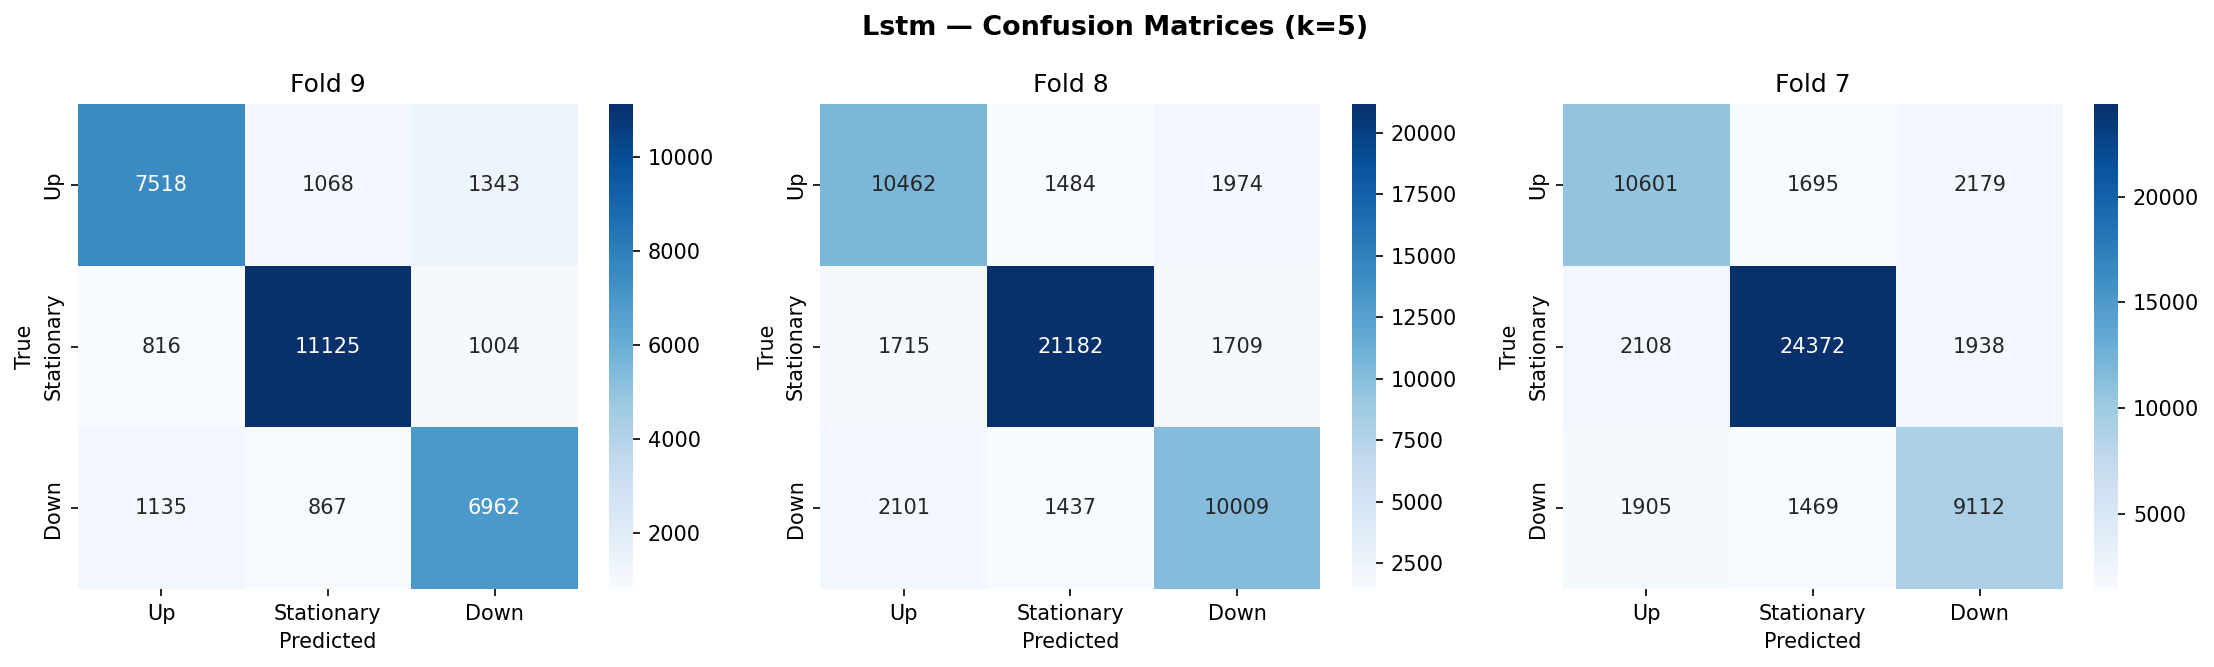
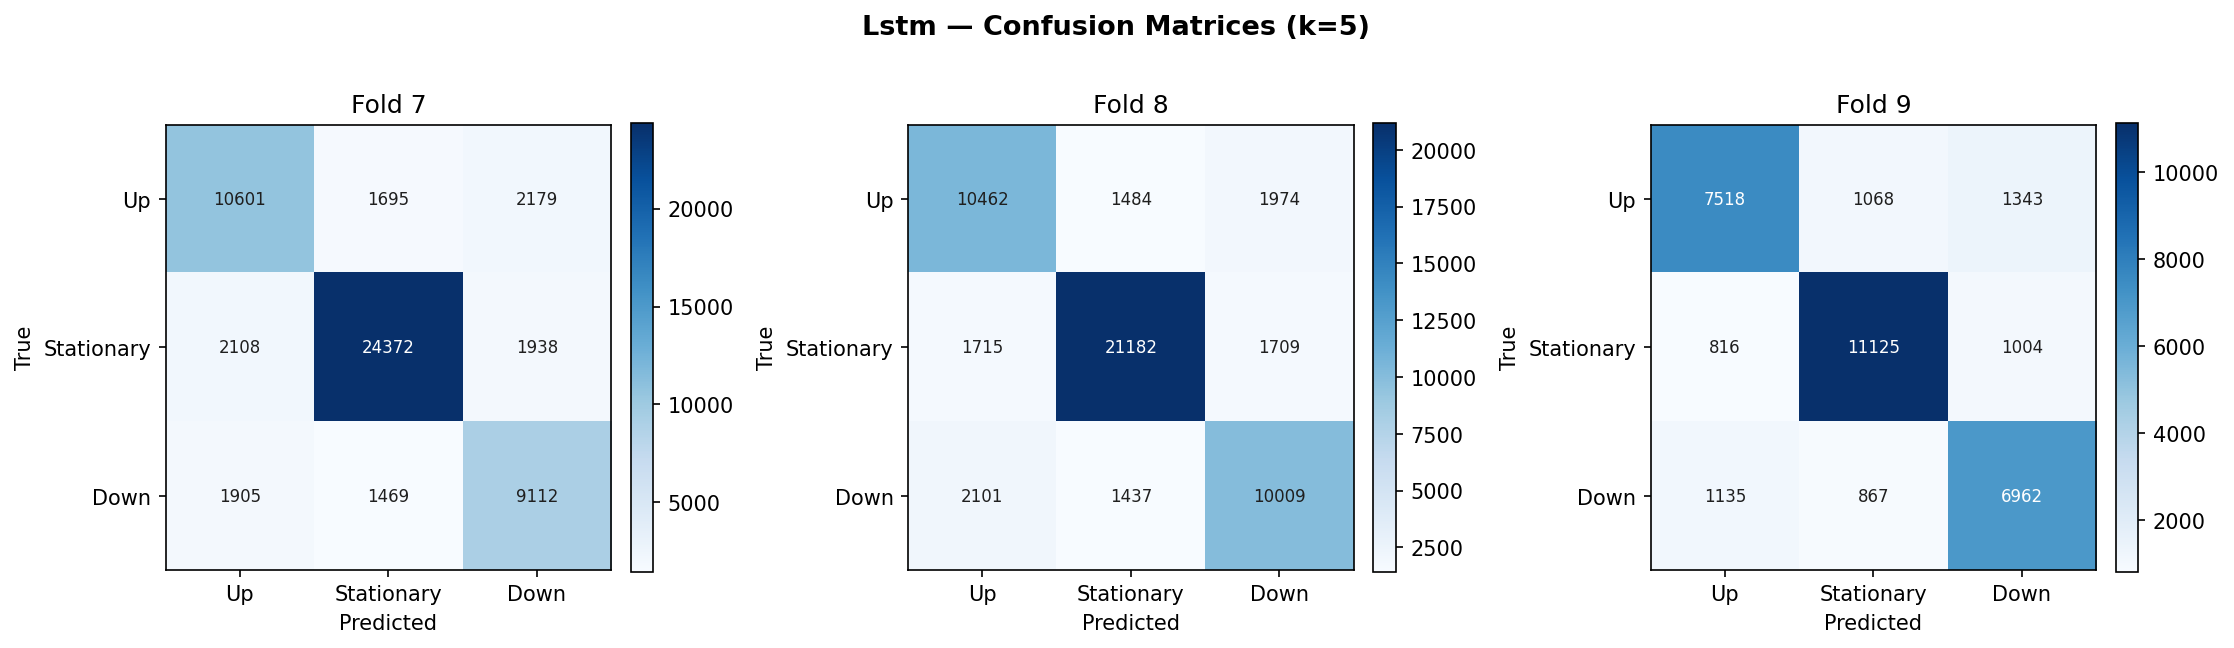
All plots

diff --git a/src/plot_results.py b/src/plot_results.py
@@ -1,6 +1,7 @@
-"""Plot saved output from output/<model>/horizon_<k>/."""
+"""Plot saved output from output/<model>/horizon_<k>/ for one or more horizons."""
 
 import argparse
+import csv
 import json
 from pathlib import Path
 
@@ -9,16 +10,19 @@ matplotlib.use("Agg")
 import matplotlib.pyplot as plt
 import numpy as np
 
-try:
-    import seaborn as sns
-    HAS_SEABORN = True
-except ImportError:
-    HAS_SEABORN = False
-
-
 ALL_MODELS = ["ridge", "logistic", "random_forest", "xgboost", "mlp", "lstm"]
 FOLDS = [7, 8, 9]
 CLASS_NAMES = ["Up", "Stationary", "Down"]
+PLOT_CHOICES = [
+    "all",
+    "confusion",
+    "loss",
+    "importance",
+    "comparison",
+    "comparison_avg",
+    "comparison_folds",
+    "heatmap",
+]
 
 
 FEATURE_GROUPS = {
@@ -39,6 +43,42 @@ def ensure_dir(path):
     Path(path).mkdir(parents=True, exist_ok=True)
 
 
+def _annotate_matrix(ax, data, fmt, threshold=None):
+    """Add contrast-aware text annotations to a heatmap."""
+    if threshold is None:
+        threshold = (float(np.max(data)) + float(np.min(data))) / 2.0
+    for row in range(data.shape[0]):
+        for col in range(data.shape[1]):
+            value = data[row, col]
+            color = "white" if value >= threshold else "#1f1f1f"
+            ax.text(col, row, format(value, fmt), ha="center", va="center", color=color, fontsize=8)
+
+
+def _draw_heatmap(ax, data, xlabels, ylabels, title, cmap, fmt, colorbar=True, aspect="auto"):
+    """Render a heatmap with adaptive text labels and optional colorbar."""
+    image = ax.imshow(data, cmap=cmap, aspect=aspect)
+    ax.set_title(title)
+    ax.set_xticks(np.arange(len(xlabels)))
+    ax.set_xticklabels(xlabels)
+    ax.set_yticks(np.arange(len(ylabels)))
+    ax.set_yticklabels(ylabels)
+    _annotate_matrix(ax, data, fmt)
+    if colorbar:
+        plt.colorbar(image, ax=ax, fraction=0.046, pad=0.04)
+    return image
+
+
+def _load_summary_rows(path):
+    """Load summary rows keyed by fold from one model summary CSV."""
+    rows = {}
+    with Path(path).open("r", encoding="utf-8", newline="") as handle:
+        reader = csv.DictReader(handle)
+        for row in reader:
+            fold = row["fold"]
+            rows[fold] = row
+    return rows
+
+
 def plot_confusion_matrices(models, horizon, results_root, out_dir):
     ensure_dir(out_dir)
     for model in models:
@@ -54,17 +94,17 @@ def plot_confusion_matrices(models, horizon, results_root, out_dir):
                 continue
             found = True
             cm = np.load(cm_path)
-            if HAS_SEABORN:
-                sns.heatmap(cm, annot=True, fmt="d", cmap="Blues", xticklabels=CLASS_NAMES, yticklabels=CLASS_NAMES, ax=axes[i])
-            else:
-                axes[i].imshow(cm, cmap="Blues")
-                for r in range(3):
-                    for c in range(3):
-                        axes[i].text(c, r, str(cm[r, c]), ha="center", va="center")
-                axes[i].set_xticks([0, 1, 2])
-                axes[i].set_xticklabels(CLASS_NAMES)
-                axes[i].set_yticks([0, 1, 2])
-                axes[i].set_yticklabels(CLASS_NAMES)
+            _draw_heatmap(
+                axes[i],
+                cm,
+                CLASS_NAMES,
+                CLASS_NAMES,
+                f"Fold {fold}",
+                "Blues",
+                "d",
+                colorbar=True,
+                aspect="equal",
+            )
             axes[i].set_title(f"Fold {fold}")
             axes[i].set_xlabel("Predicted")
             axes[i].set_ylabel("True")
@@ -154,7 +194,7 @@ def plot_feature_importance(models, horizon, results_root, out_dir):
         plt.close(fig)
 
 
-def plot_comparison(models, horizon, results_root, out_dir):
+def plot_comparison_avg(models, horizon, results_root, out_dir):
     ensure_dir(out_dir)
     labels = []
     scores = []
@@ -178,7 +218,53 @@ def plot_comparison(models, horizon, results_root, out_dir):
     for bar, score in zip(bars, scores):
         plt.text(bar.get_x() + bar.get_width() / 2, bar.get_height(), f"{score:.3f}", ha="center", va="bottom")
     plt.tight_layout()
-    out = Path(out_dir) / f"comparison_k{horizon}.png"
+    out = Path(out_dir) / f"comparison_avg_k{horizon}.png"
+    plt.savefig(out, dpi=150, bbox_inches="tight")
+    print(f"  Saved: {out}")
+    plt.close()
+
+
+def plot_comparison_folds(models, horizon, results_root, out_dir):
+    ensure_dir(out_dir)
+    labels = [f"Fold {fold}" for fold in FOLDS]
+    scores_by_model = []
+    model_labels = []
+    for model in models:
+        path = Path(results_root) / model / f"horizon_{horizon}" / "summary.csv"
+        if not path.exists():
+            continue
+        rows = _load_summary_rows(path)
+        fold_scores = []
+        complete = True
+        for fold in FOLDS:
+            key = str(fold)
+            if key not in rows:
+                complete = False
+                break
+            fold_scores.append(float(rows[key]["macro_f1"]))
+        if complete:
+            scores_by_model.append(fold_scores)
+            model_labels.append(model.replace("_", " ").title())
+    if not scores_by_model:
+        return
+
+    x = np.arange(len(FOLDS))
+    width = 0.8 / len(scores_by_model)
+    plt.figure(figsize=(12, 6))
+    for idx, (label, scores) in enumerate(zip(model_labels, scores_by_model)):
+        offset = (idx - (len(scores_by_model) - 1) / 2) * width
+        bars = plt.bar(x + offset, scores, width=width, label=label)
+        for bar, score in zip(bars, scores):
+            plt.text(bar.get_x() + bar.get_width() / 2, bar.get_height(), f"{score:.3f}", ha="center", va="bottom", fontsize=8)
+    plt.xticks(x, labels)
+    plt.xlabel("Fold")
+    plt.ylabel("Macro F1")
+    plt.title(f"Model Comparison — Macro F1 (k={horizon})")
+    plt.ylim(0, max(max(scores) for scores in scores_by_model) * 1.1)
+    plt.grid(axis="y", alpha=0.3)
+    plt.legend()
+    plt.tight_layout()
+    out = Path(out_dir) / f"comparison_folds_k{horizon}.png"
     plt.savefig(out, dpi=150, bbox_inches="tight")
     print(f"  Saved: {out}")
     plt.close()
@@ -199,22 +285,25 @@ def plot_heatmap(models, horizon, results_root, out_dir):
                 metrics["per_class"]["Up"]["f1"],
                 metrics["per_class"]["Stationary"]["f1"],
                 metrics["per_class"]["Down"]["f1"],
+                metrics["macro_f1"],
             ])
             labels.append(f"{model}:{fold}")
     if not rows:
         return
     data = np.array(rows)
-    plt.figure(figsize=(8, max(4, len(labels) * 0.4)))
-    if HAS_SEABORN:
-        sns.heatmap(data, annot=True, fmt=".3f", cmap="YlGnBu", xticklabels=CLASS_NAMES, yticklabels=labels)
-    else:
-        plt.imshow(data, cmap="YlGnBu", aspect="auto")
-        plt.xticks(range(len(CLASS_NAMES)), CLASS_NAMES)
-        plt.yticks(range(len(labels)), labels)
-        for r in range(data.shape[0]):
-            for c in range(data.shape[1]):
-                plt.text(c, r, f"{data[r, c]:.3f}", ha="center", va="center")
-    plt.title(f"Per-Class F1 Heatmap — Horizon k={horizon}")
+    plt.figure(figsize=(9, max(4, len(labels) * 0.4)))
+    ax = plt.gca()
+    _draw_heatmap(
+        ax,
+        data,
+        ["Up", "Stationary", "Down", "Macro F1"],
+        labels,
+        f"Per-Class F1 Heatmap — Horizon k={horizon}",
+        "YlGnBu",
+        ".3f",
+        colorbar=True,
+        aspect="auto",
+    )
     plt.tight_layout()
     out = Path(out_dir) / f"heatmap_k{horizon}.png"
     plt.savefig(out, dpi=150, bbox_inches="tight")
@@ -222,25 +311,33 @@ def plot_heatmap(models, horizon, results_root, out_dir):
     plt.close()
 
 
+def generate_plots(models, horizons, results_root, out_dir, plot_type):
+    """Generate the requested plot set for each horizon."""
+    for horizon in horizons:
+        print(f"\nGenerating {plot_type} plots for horizon k={horizon}...")
+        if plot_type in ("all", "confusion"):
+            plot_confusion_matrices(models, horizon, results_root, out_dir)
+        if plot_type in ("all", "loss"):
+            plot_loss_curves(models, horizon, results_root, out_dir)
+        if plot_type in ("all", "importance"):
+            plot_feature_importance(models, horizon, results_root, out_dir)
+        if plot_type in ("all", "comparison", "comparison_avg"):
+            plot_comparison_avg(models, horizon, results_root, out_dir)
+        if plot_type in ("all", "comparison", "comparison_folds"):
+            plot_comparison_folds(models, horizon, results_root, out_dir)
+        if plot_type in ("all", "heatmap"):
+            plot_heatmap(models, horizon, results_root, out_dir)
+
+
 def main():
     parser = argparse.ArgumentParser(description="Plot FI-2010 results")
-    parser.add_argument("--horizon", type=int, default=5, choices=[1, 5, 10])
+    parser.add_argument("--horizon", type=int, nargs="+", default=[5], choices=[1, 5, 10])
     parser.add_argument("--models", nargs="+", default=ALL_MODELS, choices=ALL_MODELS)
-    parser.add_argument("--plot", choices=["all", "confusion", "loss", "importance", "comparison", "heatmap"], default="all")
+    parser.add_argument("--plot", choices=PLOT_CHOICES, default="all")
     parser.add_argument("--results_root", type=str, default="./output")
     parser.add_argument("--out_dir", type=str, default="./reports")
     args = parser.parse_args()
-
-    if args.plot in ("all", "confusion"):
-        plot_confusion_matrices(args.models, args.horizon, args.results_root, args.out_dir)
-    if args.plot in ("all", "loss"):
-        plot_loss_curves(args.models, args.horizon, args.results_root, args.out_dir)
-    if args.plot in ("all", "importance"):
-        plot_feature_importance(args.models, args.horizon, args.results_root, args.out_dir)
-    if args.plot in ("all", "comparison"):
-        plot_comparison(args.models, args.horizon, args.results_root, args.out_dir)
-    if args.plot in ("all", "heatmap"):
-        plot_heatmap(args.models, args.horizon, args.results_root, args.out_dir)
+    generate_plots(args.models, args.horizon, args.results_root, args.out_dir, args.plot)
 
 
 if __name__ == "__main__":

diff --git a/src/run_all.py b/src/run_all.py
@@ -26,7 +26,16 @@ MODEL_RUNNERS = {
     "mlp": run_mlp,
     "lstm": run_lstm,
 }
-PLOT_CHOICES = ["all", "confusion", "loss", "importance", "comparison", "heatmap"]
+PLOT_CHOICES = [
+    "all",
+    "confusion",
+    "loss",
+    "importance",
+    "comparison",
+    "comparison_avg",
+    "comparison_folds",
+    "heatmap",
+]
 
 
 def generate_plots(models, horizon, results_root, out_dir, plot_type):

diff --git a/README.md b/README.md
@@ -272,21 +272,25 @@ Generated outputs:
 - Summary CSV files are saved in `output/<model>/horizon_<k>/summary.csv`
 - Plots are generated separately with `python -m src.plot_results` and saved in `reports/`
 
-To generate plots from saved outputs:
+To generate plots from saved outputs for one or more horizons:
 
 ```bash
 source .venv/bin/activate
-python -m src.plot_results --horizon 5 --plot all
-```
 
-Useful reporting commands:
-
-```bash
-# Generate all plots for horizon k=5
+# One horizon e.g. k=5
 python -m src.plot_results --horizon 5 --plot all
 
-# Generate only the model comparison chart
+# Multiple horizons e.g. Generate all plots for horizons k=1, k=5, and k=10
+python -m src.plot_results --horizon 1 5 10 --plot all
+
+# Generate both average and per-fold comparison charts
 python -m src.plot_results --horizon 5 --plot comparison
+
+# Generate only the average comparison chart
+python -m src.plot_results --horizon 5 --plot comparison_avg
+
+# Generate only the per-fold comparison chart
+python -m src.plot_results --horizon 5 --plot comparison_folds
 
 # Generate plots for selected models only
 python -m src.plot_results --horizon 5 --models ridge logistic random_forest xgboost mlp lstm --plot all
